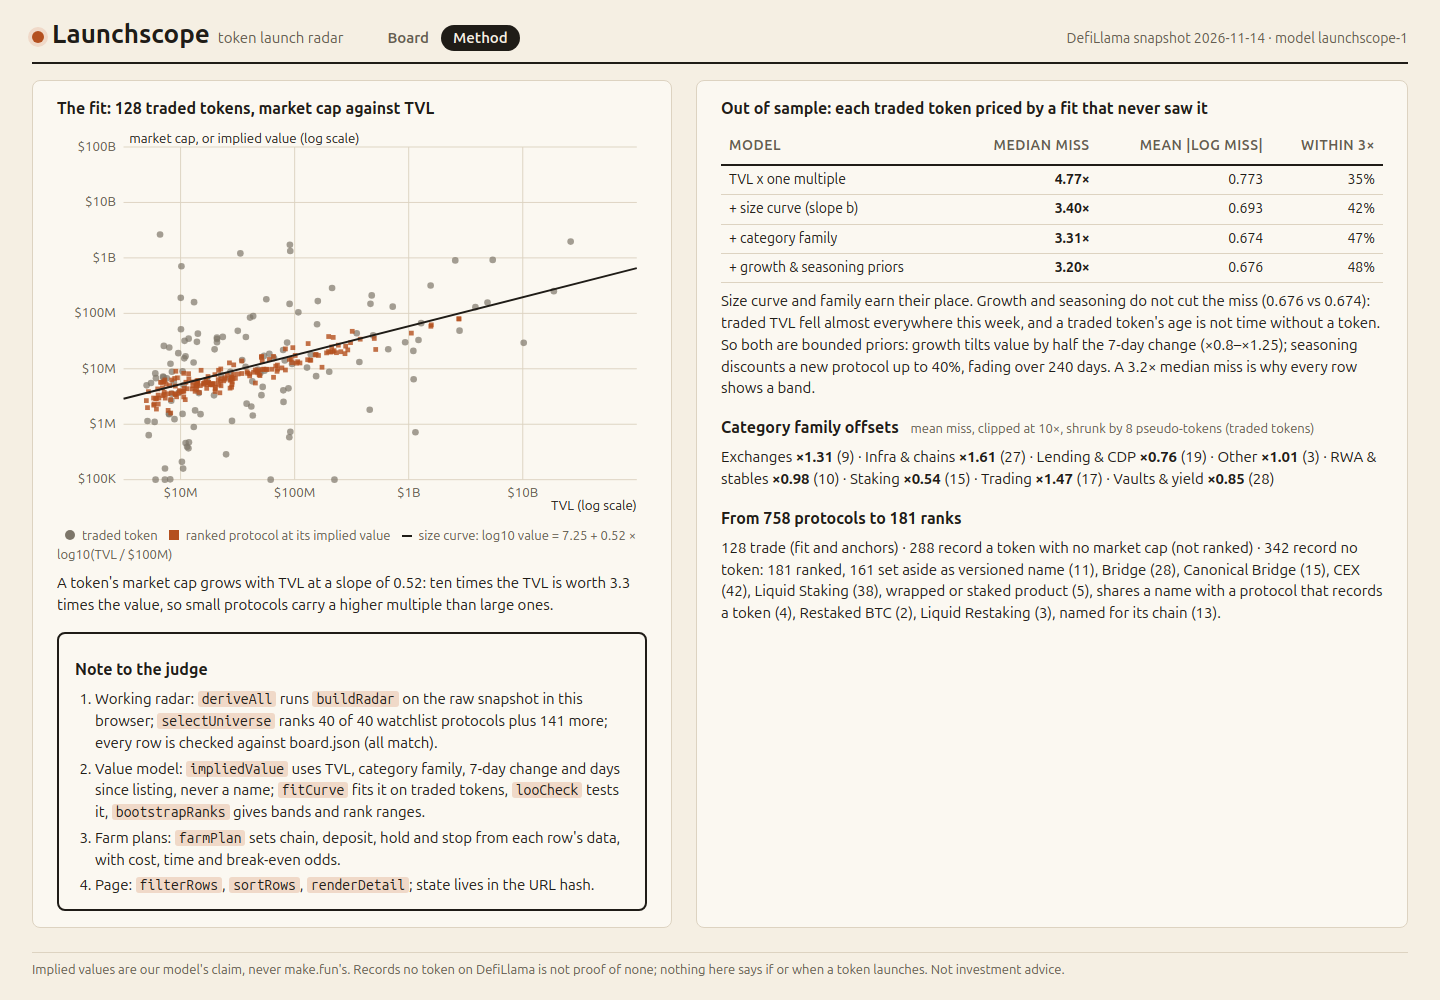
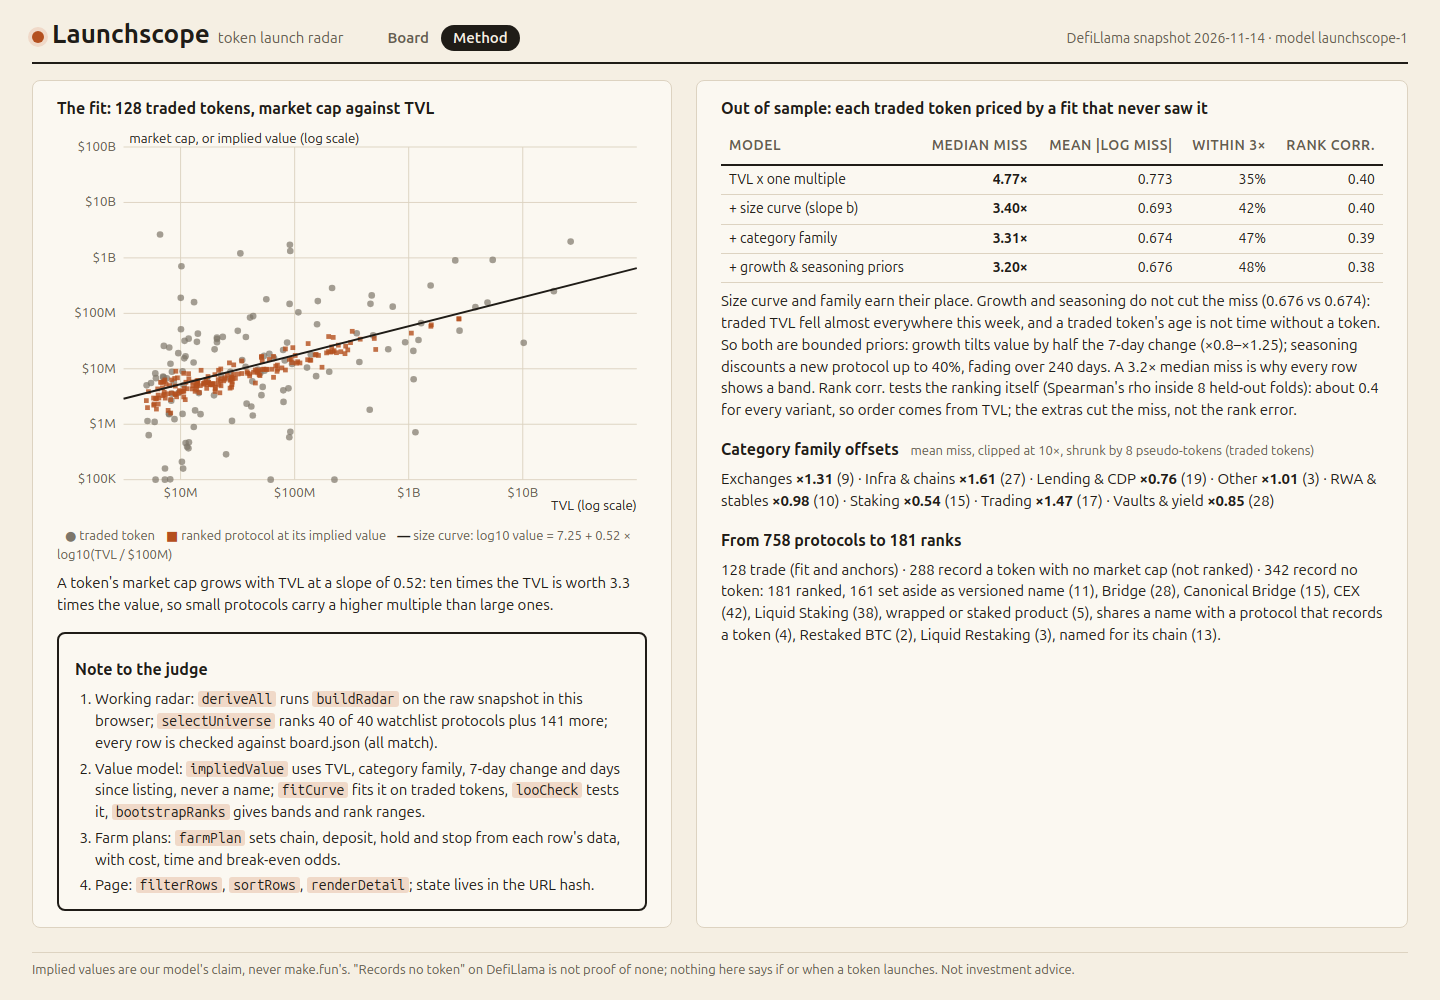
Method: bring back an out-of-sample rank correlation, measured within folds
looCheck now also tests the ranking itself: Spearman's rho inside each of 8
fixed held-out folds (one fit per fold), averaged, so variants that order
protocols the same score the same. The method text says what it shows: about
0.4 for every variant, so order comes from TVL and the extras cut the miss.

diff --git a/dashboard/radar.js b/dashboard/radar.js
@@ -39,7 +39,7 @@
     value: (r) => r.iv.value, name: (r) => r.name.toLowerCase(), tvl: (r) => r.tvl_usd, growth: (r) => (r.change_7d === null ? -1e9 : r.change_7d),
     days: (r) => (r.iv.days === null ? -1 : r.iv.days), odds: (r) => r.plan.breakEven, net: (r) => r.plan.net,
   };
-  const SORT_LABEL = { value: 'implied value', name: 'name', tvl: 'TVL', growth: '7-day TVL change', days: 'days with no token', odds: 'break-even odds', net: 'net if a token launches' };
+  const HEAD = { name: 'Protocol', value: 'Implied value', tvl: 'TVL', growth: '7d TVL', days: 'Days, no token', odds: 'Break-even odds', net: 'Net if launch' };
 
   function readHash() {
     const h = decodeURIComponent(location.hash.slice(1));
@@ -179,9 +179,9 @@
       const label = k === 'fam' ? L.FAMILY_LABEL[st.fam] : k === 'verdict' ? L.VERDICT_LABEL[st.verdict] : k === 'watch' ? 'Watchlist only' : k === 'q' ? `“${st.q}”` : st.chain;
       return `<button class="chip on x" data-k="${k}" data-v="${esc(st[k])}">${esc(label)} ✕</button>`;
     }).join('');
-    const th = (key, label, cls) => `<th data-s="${key}" class="${cls || ''} ${st.sort === key ? 'sorted' : ''}">${label}${st.sort === key ? (st.dir === 'asc' ? ' ▲' : ' ▼') : ''}</th>`;
-    $('#results').innerHTML = `<div class="status">${active}<span><b>${shown.length}</b> of ${M.rows.length} ranked shown${anchors.length ? `, ${anchors.length} traded anchors` : ''} · sorted by ${SORT_LABEL[st.sort]}</span></div>
-      <table class="board"><thead><tr><th class="rk">#</th>${th('name', 'Protocol')}${th('value', 'Implied value')}<th>P25–P75 band</th>${th('tvl', 'TVL', 'num')}${th('growth', '7d TVL', 'num')}${th('days', 'Days, no token', 'num')}${th('odds', 'Break-even odds', 'num')}${th('net', 'Net if launch', 'num')}<th>Farm verdict</th></tr></thead>
+    const th = (key, cls) => `<th data-s="${key}" class="${cls || ''} ${st.sort === key ? 'sorted' : ''}">${HEAD[key]}${st.sort === key ? (st.dir === 'asc' ? ' ▲' : ' ▼') : ''}</th>`;
+    $('#results').innerHTML = `<div class="status">${active}<span><b>${shown.length}</b> of ${M.rows.length} ranked shown${anchors.length ? `, ${anchors.length} traded anchors` : ''} · sorted by ${HEAD[st.sort].toLowerCase()}</span></div>
+      <table class="board"><thead><tr><th class="rk">#</th>${th('name')}${th('value')}<th>P25–P75 band</th>${['tvl', 'growth', 'days', 'odds', 'net'].map((k) => th(k, 'num')).join('')}<th>Farm verdict</th></tr></thead>
       <tbody>${body.join('') || '<tr><td colspan="10" class="empty">No ranked protocol matches these filters; remove a chip above.</td></tr>'}</tbody></table>`;
   }
 
@@ -267,7 +267,7 @@
 
   function renderMethod() {
     const loo = M.R.loo, f = M.fit, u = M.R.universe;
-    const looRows = loo.map((v) => `<tr><td>${esc(v.label)}</td><td class="num"><b>${v.medianMiss.toFixed(2)}×</b></td><td class="num">${v.meanLogMiss.toFixed(3)}</td><td class="num">${Math.round(v.within3x * 100)}%</td></tr>`).join('');
+    const looRows = loo.map((v) => `<tr><td>${esc(v.label)}</td><td class="num"><b>${v.medianMiss.toFixed(2)}×</b></td><td class="num">${v.meanLogMiss.toFixed(3)}</td><td class="num">${Math.round(v.within3x * 100)}%</td><td class="num">${v.rankCorr.toFixed(2)}</td></tr>`).join('');
     const famN = {};
     M.traded.forEach((t) => { const k = L.familyOf(t.category); famN[k] = (famN[k] || 0) + 1; });
     const fams = Object.keys(f.fam).map((k) => `${L.FAMILY_LABEL[k]} <b>${times(10 ** f.fam[k])}</b> (${famN[k]})`).join(' · ');
@@ -276,7 +276,7 @@
     const c = { protocols: S.protocols.length, watchlist: S.watchlist.length, ranked: M.rows.length, traded: M.traded.length, set_aside: u.setAside.length, recorded: u.recorded };
     $('#view').innerHTML = `<div class="method">
       <section class="card"><h2>The fit: ${c.traded} traded tokens, market cap against TVL</h2>${scatterSvg()}
-        <p class="legend"><i class="dot t"></i> traded token <i class="dot r"></i> ranked protocol at its implied value <i class="dot fit"></i> size curve: log10 value = ${f.a.toFixed(2)} + ${f.b.toFixed(2)} × log10(TVL / $100M)</p>
+        <p class="legend"><b class="t">●</b> traded token <b class="r">■</b> ranked protocol at its implied value <b>—</b> size curve: log10 value = ${f.a.toFixed(2)} + ${f.b.toFixed(2)} × log10(TVL / $100M)</p>
         <p>A token's market cap grows with TVL at a slope of ${f.b.toFixed(2)}: ten times the TVL is worth ${(10 ** f.b).toFixed(1)} times the value, so small protocols carry a higher multiple than large ones.</p>
         <div class="judge"><h2>Note to the judge</h2><ol>
           <li>Working radar: <code>deriveAll</code> runs <code>buildRadar</code> on the raw snapshot in this browser; <code>selectUniverse</code> ranks ${M.watch} of ${c.watchlist} watchlist protocols plus ${c.ranked - M.watch} more; every row is checked against board.json (${M.check.ok ? 'all match' : 'see the board'}).</li>
@@ -285,8 +285,8 @@
           <li>Page: <code>filterRows</code>, <code>sortRows</code>, <code>renderDetail</code>; state lives in the URL hash.</li>
         </ol></div></section>
       <section class="card"><h2>Out of sample: each traded token priced by a fit that never saw it</h2>
-        <table class="mini"><thead><tr><th>Model</th><th class="num">Median miss</th><th class="num">Mean |log miss|</th><th class="num">Within 3×</th></tr></thead><tbody>${looRows}</tbody></table>
-        <p>Size curve and family earn their place. Growth and seasoning do not cut the miss (${loo[3].meanLogMiss.toFixed(3)} vs ${loo[2].meanLogMiss.toFixed(3)}): traded TVL fell almost everywhere this week, and a traded token's age is not time without a token. So both are bounded priors: growth tilts value by half the 7-day change (×${L.MODEL.growthMin}–×${L.MODEL.growthMax}); seasoning discounts a new protocol up to ${L.MODEL.seasonDepth * 100}%, fading over ${L.MODEL.seasonDays} days. A ${loo[3].medianMiss.toFixed(1)}× median miss is why every row shows a band.</p>
+        <table class="mini"><thead><tr><th>Model</th><th class="num">Median miss</th><th class="num">Mean |log miss|</th><th class="num">Within 3×</th><th class="num">Rank corr.</th></tr></thead><tbody>${looRows}</tbody></table>
+        <p>Size curve and family earn their place. Growth and seasoning do not cut the miss (${loo[3].meanLogMiss.toFixed(3)} vs ${loo[2].meanLogMiss.toFixed(3)}): traded TVL fell almost everywhere this week, and a traded token's age is not time without a token. So both are bounded priors: growth tilts value by half the 7-day change (×${L.MODEL.growthMin}–×${L.MODEL.growthMax}); seasoning discounts a new protocol up to ${L.MODEL.seasonDepth * 100}%, fading over ${L.MODEL.seasonDays} days. A ${loo[3].medianMiss.toFixed(1)}× median miss is why every row shows a band. Rank corr. tests the ranking itself (Spearman's rho inside 8 held-out folds): about ${loo[0].rankCorr.toFixed(1)} for every variant, so order comes from TVL; the extras cut the miss, not the rank error.</p>
         <h2>Category family offsets <small>mean miss, clipped at 10×, shrunk by ${L.MODEL.familyShrinkK} pseudo-tokens (traded tokens)</small></h2><p>${fams}</p>
         <h2>From ${c.protocols} protocols to ${c.ranked} ranks</h2>
         <p>${c.traded} trade (fit and anchors) · ${c.recorded} record a token with no market cap (not ranked) · ${c.ranked + c.set_aside} record no token: ${c.ranked} ranked, ${c.set_aside} set aside as ${Object.keys(why).map((k) => `${esc(k)} (${why[k]})`).join(', ')}.</p></section></div>`;

diff --git a/dashboard/model.js b/dashboard/model.js
@@ -231,12 +231,26 @@
     ['family', '+ category family', 1, 1, 0], ['full', '+ growth & seasoning priors', 1, 1, 1]]
     .map(([key, label, slope, families, priors]) => ({ key, label, slope: !!slope, families: !!families, priors: !!priors }));
 
+  /** Spearman's rho from ranks (the values are continuous, so ties do not arise). */
+  function spearman(a, b) {
+    const ranks = (v) => { const r = []; v.map((x, i) => i).sort((i, j) => v[i] - v[j]).forEach((i, k) => (r[i] = k)); return r; };
+    const ra = ranks(a), rb = ranks(b), n = a.length;
+    return 1 - (6 * ra.reduce((s, x, i) => s + (x - rb[i]) ** 2, 0)) / (n * (n * n - 1));
+  }
+
   /** Each traded token predicted by a fit that never saw it, for each nested variant of the model. */
   function looCheck(traded, asOf) {
     return VARIANTS.map((v) => {
       const pts = fitPoints(traded, asOf, v.priors);
       const miss = pts.map((pt, i) => Math.abs(pt.y - predictLog(fitCurve(pts.filter((_, j) => j !== i), v), pt.x, pt.fam)));
+      // The ranking itself, out of sample: Spearman's rho inside each of 8 fixed held-out folds, averaged.
+      let rankCorr = 0;
+      for (let f = 0; f < 8; f++) {
+        const fit = fitCurve(pts.filter((_, j) => j % 8 !== f), v), held = pts.filter((_, j) => j % 8 === f);
+        rankCorr += spearman(held.map((pt) => predictLog(fit, pt.x, pt.fam) + pt.prior), held.map((pt) => pt.y + pt.prior)) / 8;
+      }
       return {
+        rankCorr,
         key: v.key, label: v.label, n: pts.length,
         medianMiss: Math.pow(10, quantile(miss, 0.5)),
         meanLogMiss: miss.reduce((s, m) => s + m, 0) / miss.length,

diff --git a/dashboard/style.css b/dashboard/style.css
@@ -136,10 +136,9 @@ td { padding: 4px 8px; border-bottom: 1px solid var(--rule); }
 .scatter .t { fill: var(--grey); fill-opacity: 0.7; }
 .scatter .r { fill: var(--accent); fill-opacity: 0.8; }
 .scatter .fit { stroke: var(--ink); stroke-width: 2; }
-.dot { display: inline-block; width: 10px; height: 10px; border-radius: 50%; margin: 0 4px 0 8px; }
-.dot.t { background: var(--grey); }
-.dot.r { background: var(--accent); border-radius: 0; }
-.dot.fit { background: var(--ink); height: 2px; border-radius: 0; vertical-align: 3px; }
+.legend b { color: var(--ink); margin-left: 8px; }
+.legend .t { color: var(--grey); }
+.legend .r { color: var(--accent); }
 .judge { margin-top: 16px; padding: 8px 16px; border: 2px solid var(--ink); border-radius: 8px; }
 .judge ol { margin: 0; padding-left: 20px; }
 .judge li { margin: 4px 0; }
